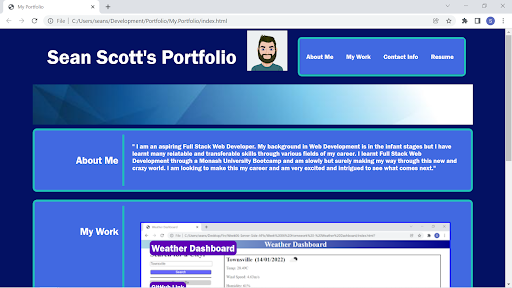
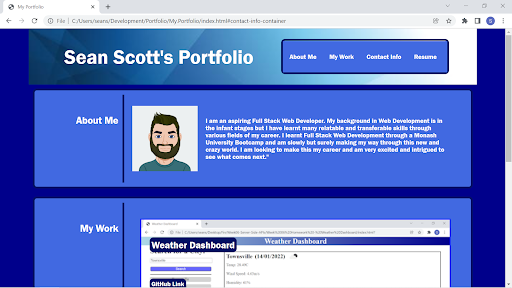
changed screenshots to current updated version of page, there was a mix up with container-info class on two different elements, cleared up, all is working

diff --git a/Assets/CSS/style.css b/Assets/CSS/style.css
@@ -5,7 +5,8 @@
 body {
     padding: 0;
     margin: 0;
-    background-color: #031163;
+    background-color: darkblue;
+    /* background-color: rgb(95, 2, 182); */
     font-family:'Franklin Gothic Medium', 'Arial Narrow', Arial, sans-serif;
     color: white;
     min-height: 100vh;
@@ -52,13 +53,8 @@ li:last-child {
     align-items: center;
 }
 
-.contact-info-items ul {
-    display: flex;
-    justify-content: space-around;
-}
-
 .main-nav {
-    border: 5px solid #1fbfb8;
+    border: 5px solid #031163;
     border-radius: 10px;
 }
 
@@ -84,7 +80,7 @@ a:hover, .download-resume:hover {
     flex-direction: row;
     padding: 10px;
     margin: 10px;
-    border: 5px solid #1fbfb8;
+    border: 5px solid #031163;
     border-radius: 10px;
     background-color: royalblue;
 }
@@ -109,7 +105,7 @@ a:hover, .download-resume:hover {
 
 .individual-work-title:hover, .project-link:hover, .project-link-github:hover {
     transform: scale(1.1);
-    border: 3px solid blueviolet;
+    border: 3px solid #031163;
 }
 
 .individual-work-title {
@@ -124,7 +120,7 @@ a:hover, .download-resume:hover {
 
 .project-card {
     color: white;
-    background-color: rgb(95, 2, 182);
+    background-color: #031163;
     max-width: fit-content;
     max-height: auto;
     padding: 5px;
@@ -182,12 +178,10 @@ a:hover, .download-resume:hover {
     width: 20%;
     text-align: right;
     padding: 50px 10px;
-    border-right: 5px solid #1fbfb8;
+    border-right: 5px solid #031163;
 }
 
 .container-info {    
-    display: flex;
-    align-items: center;
     width: 80%;
     padding: 20px;
 }
@@ -198,6 +192,11 @@ a:hover, .download-resume:hover {
 
 .about-me-text {
     padding: 20px;
+}
+
+.about-me-info {
+    display: flex;
+    align-items: center;
 }
 
 @media screen and (max-width: 481px) {
